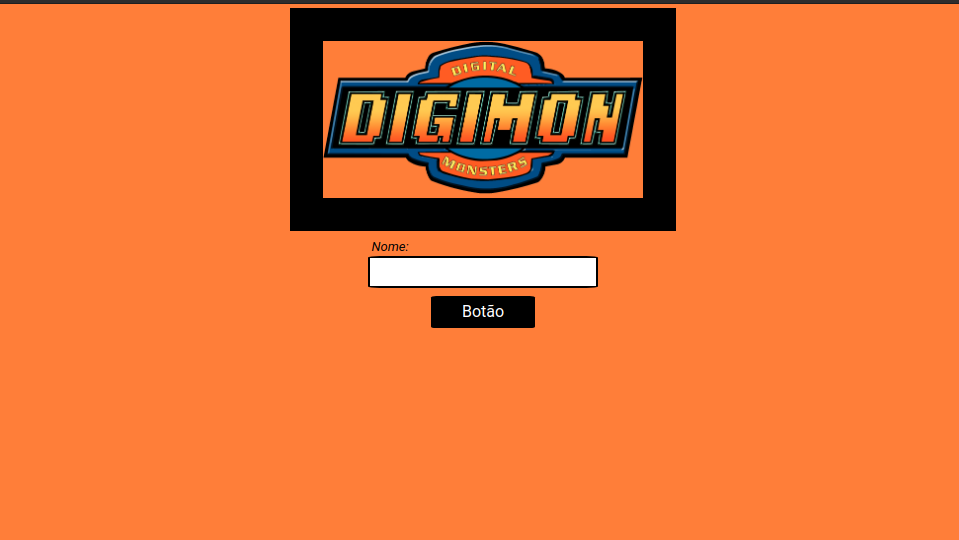
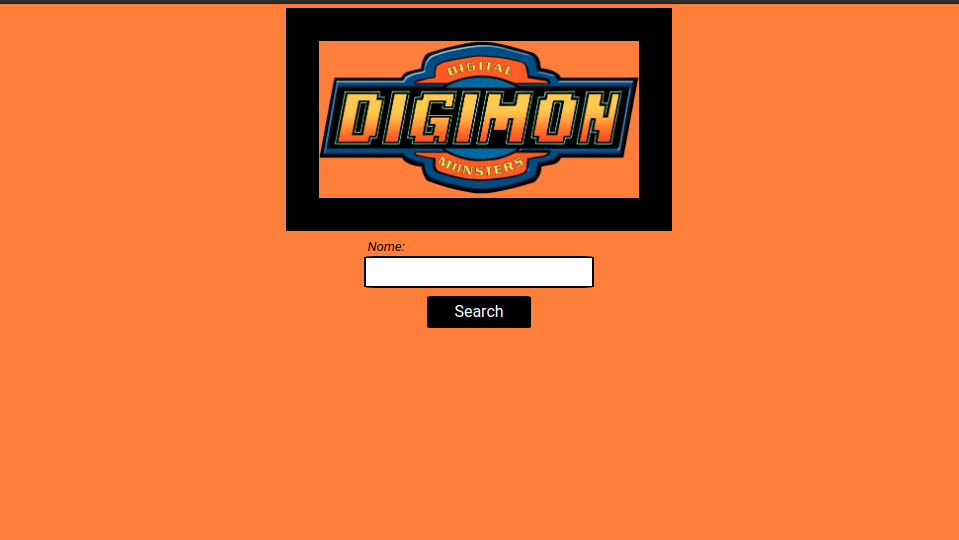
fix img and button

diff --git a/index.html b/index.html
@@ -19,7 +19,7 @@
         <form action="" class="form">
             <label for="" class="label">Nome:</label>
             <input type="text" class="input-border" id="diginame">
-            <button type="button" class="button-style" onclick="getSubmit()">Botão</button>
+            <button type="button" class="button-style" onclick="getSubmit()">Search</button>
         </form>
     </div>
     <script src="js/script.js"></script>
